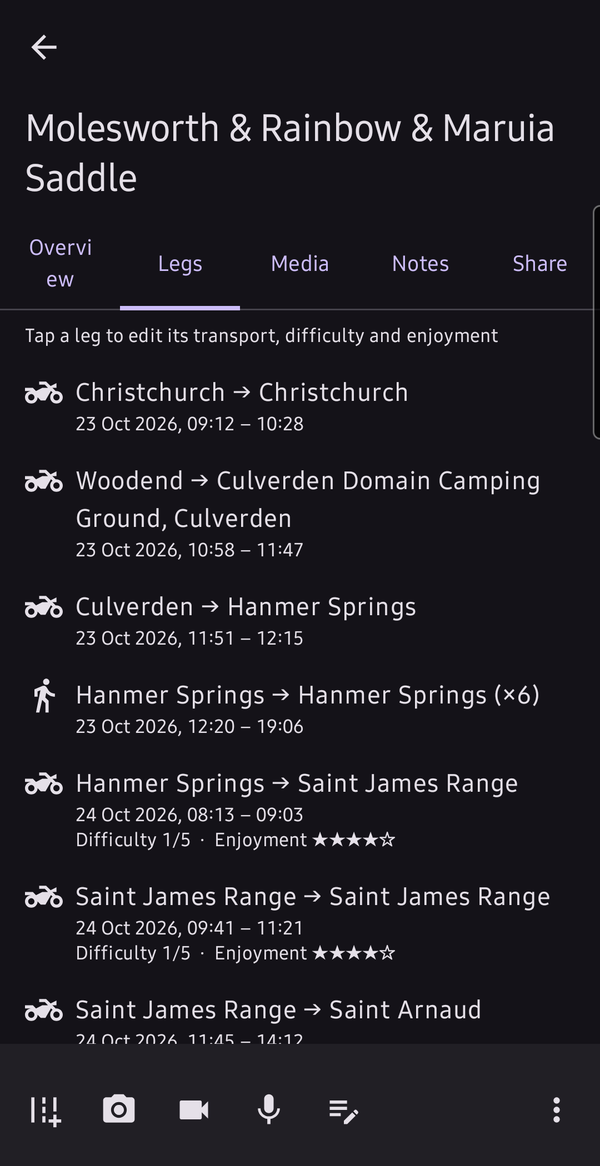
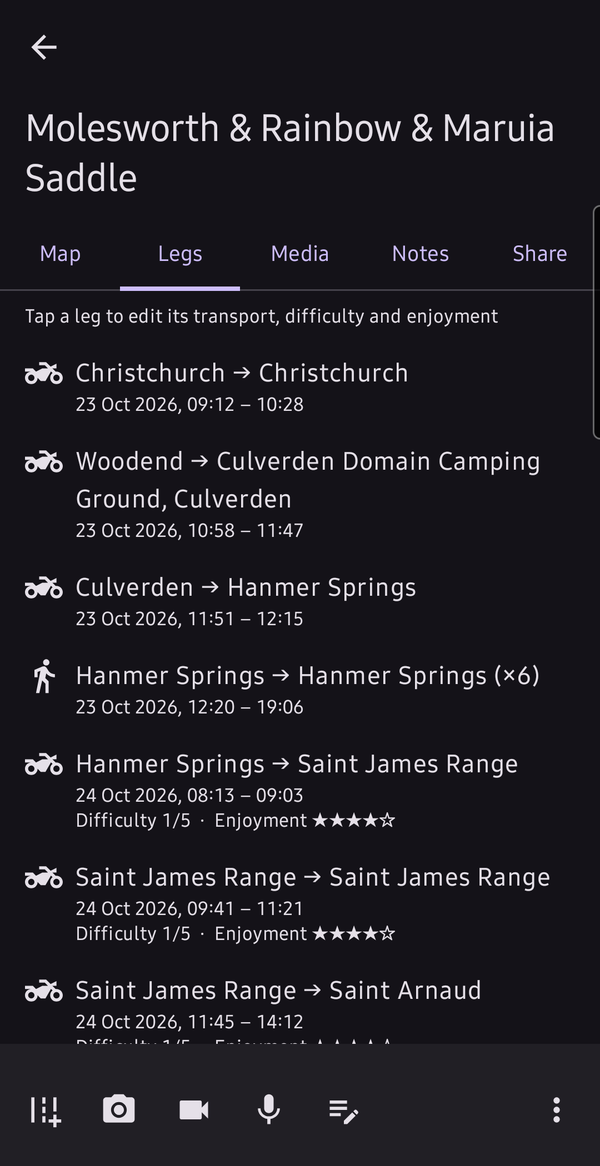
Rename trip Overview tab to Map; retake README screenshots
The Overview label wrapped on narrow screens. README feature list now
mentions all five tabs.

Changed region(s): [[0.03, 0.1852, 0.93, 0.8954], [0.84, 0.2161, 0.96, 0.247], [0.06, 0.5557, 0.09, 0.6175]]

diff --git a/app/src/main/java/net/jonesie/traveldiary/ui/TripDetailScreen.kt b/app/src/main/java/net/jonesie/traveldiary/ui/TripDetailScreen.kt
@@ -218,7 +218,7 @@ fun TripDetailScreen(
             )
         }
 
-        val tabs = listOf("Overview", "Legs", "Media", "Notes", "Share")
+        val tabs = listOf("Map", "Legs", "Media", "Notes", "Share")
 
         Column(modifier = Modifier.fillMaxSize().padding(padding)) {
             Text(

diff --git a/README.md b/README.md
@@ -10,7 +10,7 @@ All data is stored on the device (Room/SQLite). Nothing is synced automatically;
 
 <p>
   <img src="docs/screenshots/trips.png" width="19%" alt="List of trips with star ratings">
-  <img src="docs/screenshots/trip-overview.png" width="19%" alt="A trip's route on the map, coloured by difficulty">
+  <img src="docs/screenshots/trip-route.png" width="19%" alt="A trip's route on the map, coloured by difficulty">
   <img src="docs/screenshots/trip-legs.png" width="19%" alt="The legs of a trip with transport, times and ratings">
   <img src="docs/screenshots/trip-media.png" width="19%" alt="Photos and videos attached to a trip">
   <img src="docs/screenshots/stats.png" width="19%" alt="Trip stats: totals and distance by transport">
@@ -20,7 +20,7 @@ The route map fills the screen too:
 
 <p><img src="docs/screenshots/trip-map.png" width="30%" alt="Full-screen trip map"></p>
 
-*Trips, in order: the list, a trip's route, its legs, its media and the stats. Faces and
+*Trips, in order: the list, a trip's Map tab, its legs, its media and the stats. Faces and
 names in the screenshots are blurred.*
 
 ## Features
@@ -34,7 +34,7 @@ names in the screenshots are blurred.*
 - **Sort** the trip list by date or rating, ascending or descending (unrated trips always last by rating).
 - **Search** the diary by title, by place name, or near your current location. Place and location
   searches list trips whose route, stops, notes or media came within 1, 5 or 25 km.
-- **Trip screen with four tabs**: Overview (dates, rating, route map, companions), Legs, Media, Notes.
+- **Trip screen with five tabs**: Map (dates, rating, route map, companions), Legs, Media, Notes, Share.
 - **Legs** with a transport type (walk, bike, motorbike, car, 4WD, bus, train, plane, boat, other),
   plus a difficulty (1-5) and an enjoyment (1-5 stars). Edit a single leg, or change the transport for
   every leg of a type across a whole trip.
